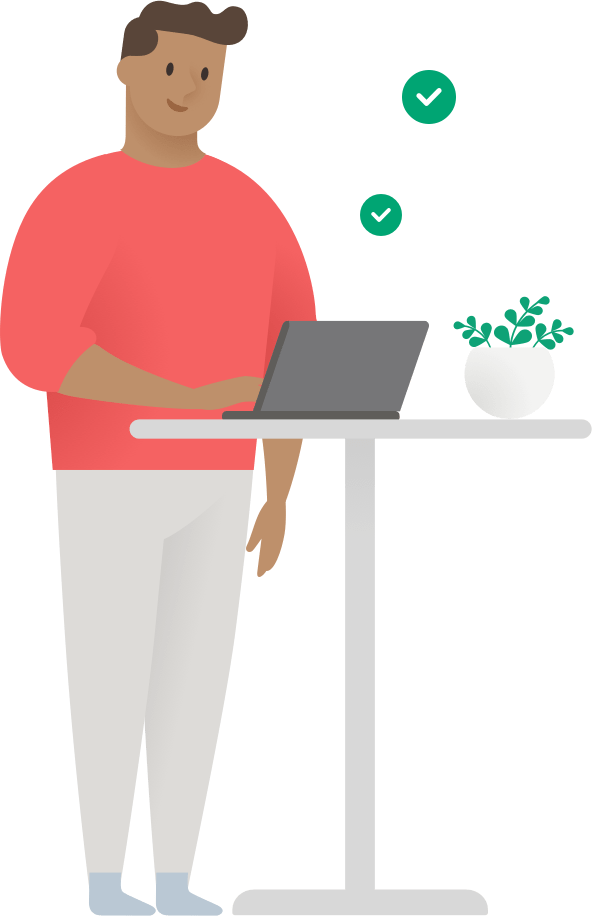
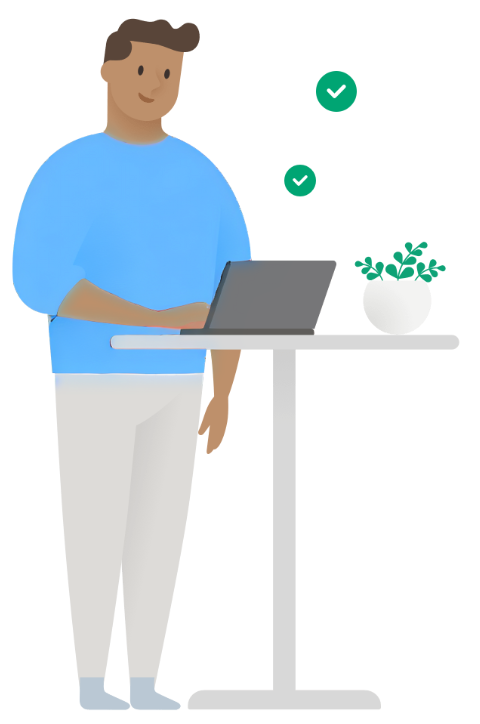
mudanças

Changed region(s): [[0.0, 0.0, 1.0, 1.0], [0.6562, 0.0608, 0.7812, 0.1519], [0.5938, 0.2127, 0.6875, 0.2735]]

diff --git a/client/src/app/dashboard/(components)/Note.tsx b/client/src/app/dashboard/(components)/Note.tsx
@@ -36,12 +36,10 @@ export default function Note({note, onClick, toEdit}: NoteProps) {
 		closeModal();
 	};
 
-	// State to track visibility of icons
-	const [showIcons, setShowIcons] = useState(false);
+	const [showMobileIcons, setShowMobileIcons] = useState(false);
 
-	// Event handler to toggle visibility (mobile)
-	const toggleIcons = (e: React.MouseEvent) => {
-		setShowIcons(!showIcons);
+	const toggleIcons = () => {
+		setShowMobileIcons(!showMobileIcons);
 	};
 
 	return (
@@ -60,28 +58,24 @@ export default function Note({note, onClick, toEdit}: NoteProps) {
 				<td className="px-4 py-2 w-3/4">{note.texto}</td>
 
 				<td className="py-2 relative">
+					{/* Desktop */}
 					<div className="md:flex hidden items-center space-x-2 opacity-0 group-hover:opacity-100">
 						<NoteIcon name="edit" onClick={openModal} />
 						<NoteIcon name="person_add" />
 						<NoteIcon name="delete" onClick={onClick} />
 					</div>
 
-					<div className="md:hidden" onClick={toggleIcons}>
-						<NoteIcon name="more_vert" />
-					</div>
-
-					{showIcons && ( // Conditional rendering based on showIcons state
-						<div className="relative right-0 mt-2 rounded-md shadow-lg bg-white ring-1 ring-black ring-opacity-5">
-							<div className="">
-								<NoteIcon name="edit" onClick={openModal} />
-								<NoteIcon name="person_add" />
-								<NoteIcon
-									name="delete"
-									onClick={onClick}
-								/>
-							</div>
+					{/* Mobile */}
+					<div className="md:hidden">
+						<NoteIcon name="more_vert" onClick={toggleIcons} />
+						{showMobileIcons && (
+						<div className="absolute right-0 mt-2 py-2 w-48 bg-white rounded-lg shadow-xl">
+							<NoteIcon name="edit" onClick={openModal} />
+							<NoteIcon name="person_add" />
+							<NoteIcon name="delete" onClick={onClick} />
 						</div>
-					)}
+						)}
+					</div>
 				</td>
 			</tr>
 		</>

diff --git a/client/src/app/home/page.tsx b/client/src/app/home/page.tsx
@@ -10,7 +10,7 @@ export default function HomePage() {
 					{/* Illustration Left */}
 					<div className="hidden md:block">
 						<Image
-							src="/home/left-desktop.png"
+							src="/home/left-desktop-blue.png"
 							width={207}
 							height={320}
 							alt="Left Bro"
